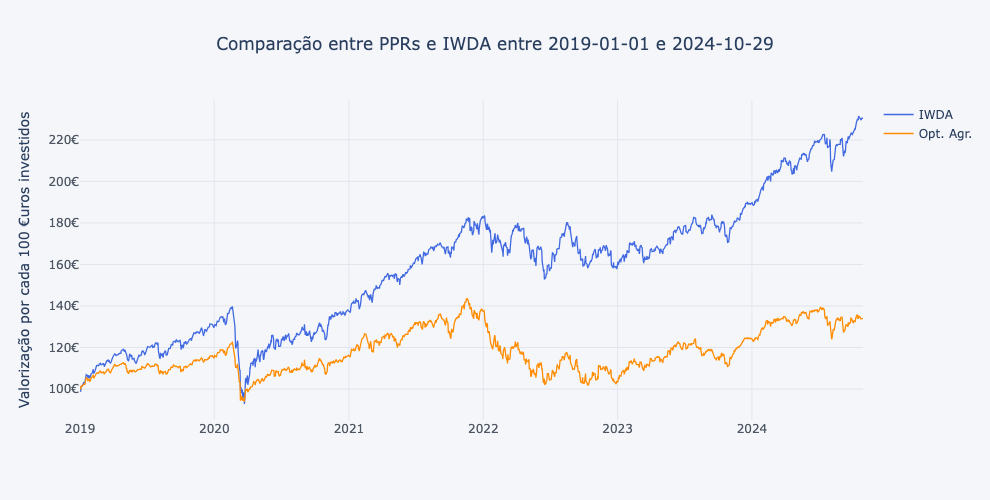
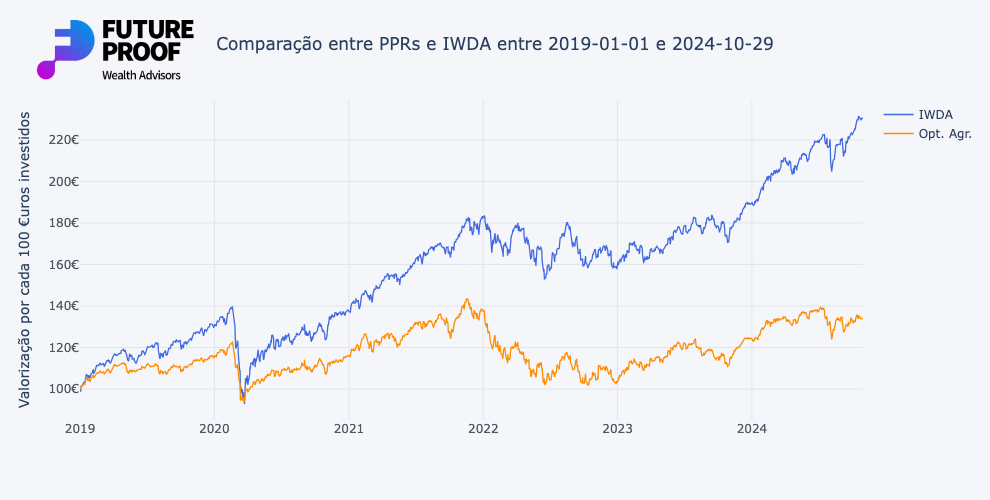
update on post 005

Changed region(s): [[0.0303, 0.03, 0.2121, 0.18]]

diff --git a/post_005/analise_PPRs_100_equity.py b/post_005/analise_PPRs_100_equity.py
@@ -95,7 +95,7 @@ start = data.index[0].strftime('%Y-%m-%d')
 end = data.index[-1].strftime('%Y-%m-%d')
 
 dsf.ichart(data, title=f"Comparação entre PPRs e IWDA entre {start} e {end}",
- yTitle='Valorização por cada 100 €uros investidos', yticksuffix='€')
+ yTitle='Valorização por cada 100 €uros investidos', yticksuffix='€', image='fp')
 
 # %%
 dsf.compute_performance_table(data)
@@ -115,7 +115,7 @@ start = data.index[0].strftime('%Y-%m-%d')
 end = data.index[-1].strftime('%Y-%m-%d')
 
 dsf.ichart(data, title=f"Comparação entre PPRs e IWDA entre {start} e {end}",
- yTitle='Valorização por cada 100 €uros investidos', yticksuffix='€')
+ yTitle='Valorização por cada 100 €uros investidos', yticksuffix='€', image='fp')
 
 # %%
 dsf.compute_performance_table(data)
@@ -133,7 +133,7 @@ start = data.index[0].strftime('%Y-%m-%d')
 end = data.index[-1].strftime('%Y-%m-%d')
 
 dsf.ichart(data, title=f"Comparação entre PPRs e IWDA entre {start} e {end}",
- yTitle='Valorização por cada 100 €uros investidos', yticksuffix='€')
+ yTitle='Valorização por cada 100 €uros investidos', yticksuffix='€', image='fp')
 
 # %%
 dsf.compute_performance_table(data)

diff --git a/post_005/analise_PPRs_100_equity.md b/post_005/analise_PPRs_100_equity.md
@@ -1,3 +1,11 @@
+Fartos de ouvir que os serviços profissionais são algo apenas para milionários, a Future Proof lançou um serviço de apoio à literacia financeira e suporte personalizado na criação de planos de investimento.
+
+Financial Coaching
+
+Como complemento a essas sessões, temos escrito vários artigos. Este é um deles.
+
+------------------------------------------------------------------------------------------------------
+
 Esta semana irei começar a fazer a análise a alguns PPRs, uns porque são "famosos" na comunidade, outros porque são mesmo análises a partilhar com clientes.
 
 Os primeiros a ser analisados são os 100% acções. Nestes últimos anos têm vindo a aumentar a quantidade de PPRs que têm uma alocação significativa a acções, incluindo os visados nesta análise, que têm uma alocação 100% acções (na realidade é muitas vezes entre 95 a 99%) devido ao cash que normalmente também detêm para fazer face a resgates e/ou gestão do PPR (anmdar sempre a comprar e a vender acções também tem custos desnecessários).
@@ -52,5 +60,18 @@ Ou seja, mesmo apresentando o Tendências Globais um retorno maior do que o IWDA
 
 Tenho a dizer contudo que a performance mais recente destes dois PPRs é boa, embora o período em análise seja curto. Gostaria de ver pelo menos um ciclo completo (subida e descida) antes de me sentir confortável com a boa performance dos mesmos, aliás porque com um período maior um deles (Save and Grow) tem uma performance muito abaixo do IWDA, embora nesta recente subida apresente uma performance que não é má.
 
-Acompanhemos e o futuro nos dirá se estes dois PPRs conseguem manter a boa performance recente. Uma vez que o investimento em PPRs normalmente é para longo prazo, 2.3 anos é insuficiente para formarmos uma opinião na minha opinião.
+Acompanhemos e o futuro nos dirá se estes dois PPRs conseguem manter a boa performance recente. Uma vez que o investimento em PPRs normalmente é para longo prazo penso que 2.3 anos é insuficiente para formarmos uma opinião.
 
+------------------------------------------------------------------------------------------------------------
+
+Artigos mais recentes escritos por mim:
+
+Diversificação e correlação entre fundos - Parte 2 (Artigos Future Proof)
+Diversificação e correlação entre fundos
+Efeito do corte de Taxas de Juros (FED) e o mercado como máquina de expectativas
+Sobre o uso de ETF obrigacionistas para gestão de liquidez (update de 1 ano)
+Boa leituras e continuação de excelentes negócios
+
+https://www.reddit.com/r/literaciafinanceira/comments/1gd8yfq/diversifica%C3%A7%C3%A3o_e_correla%C3%A7%C3%A3o_entre_fundos_parte_3/
+
+Este é o post 005 e qualquer código e imagens criadas e usadas no post pode ser encontrado aqui no respectivo repositório no github: https://github.com/LuisSousaSilva/artigos/tree/main
